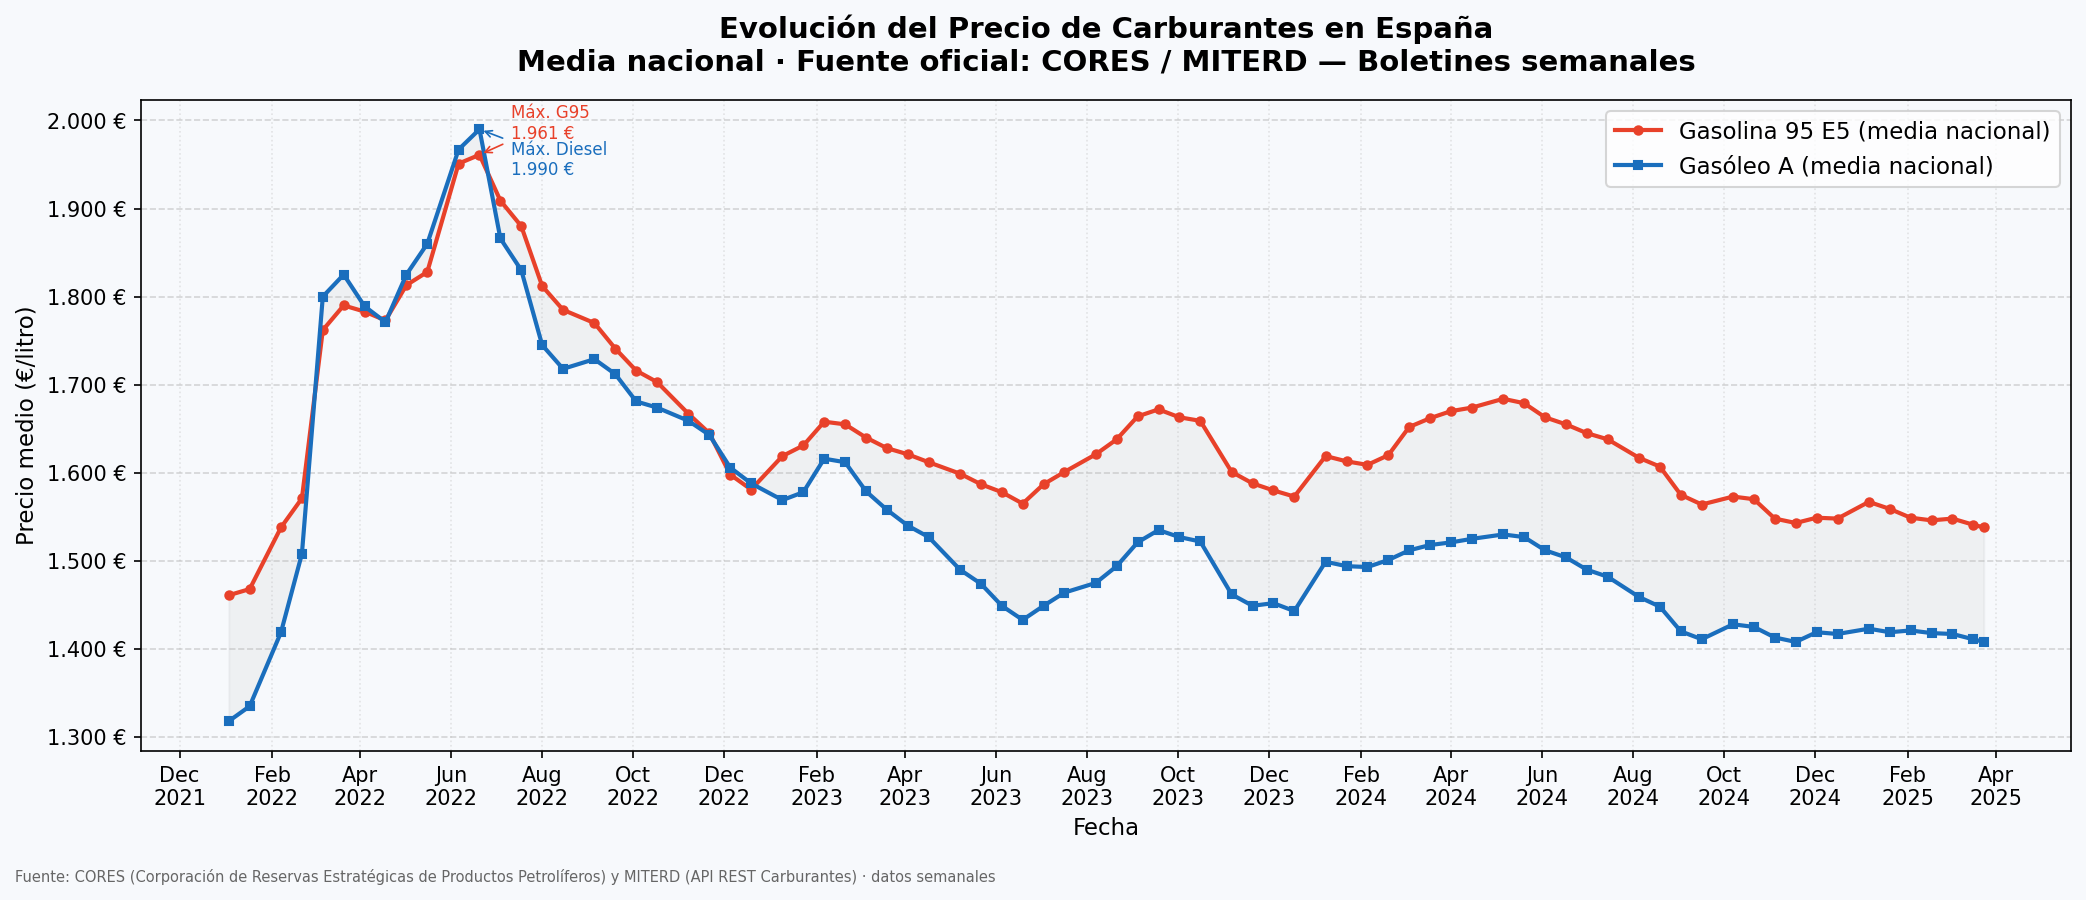
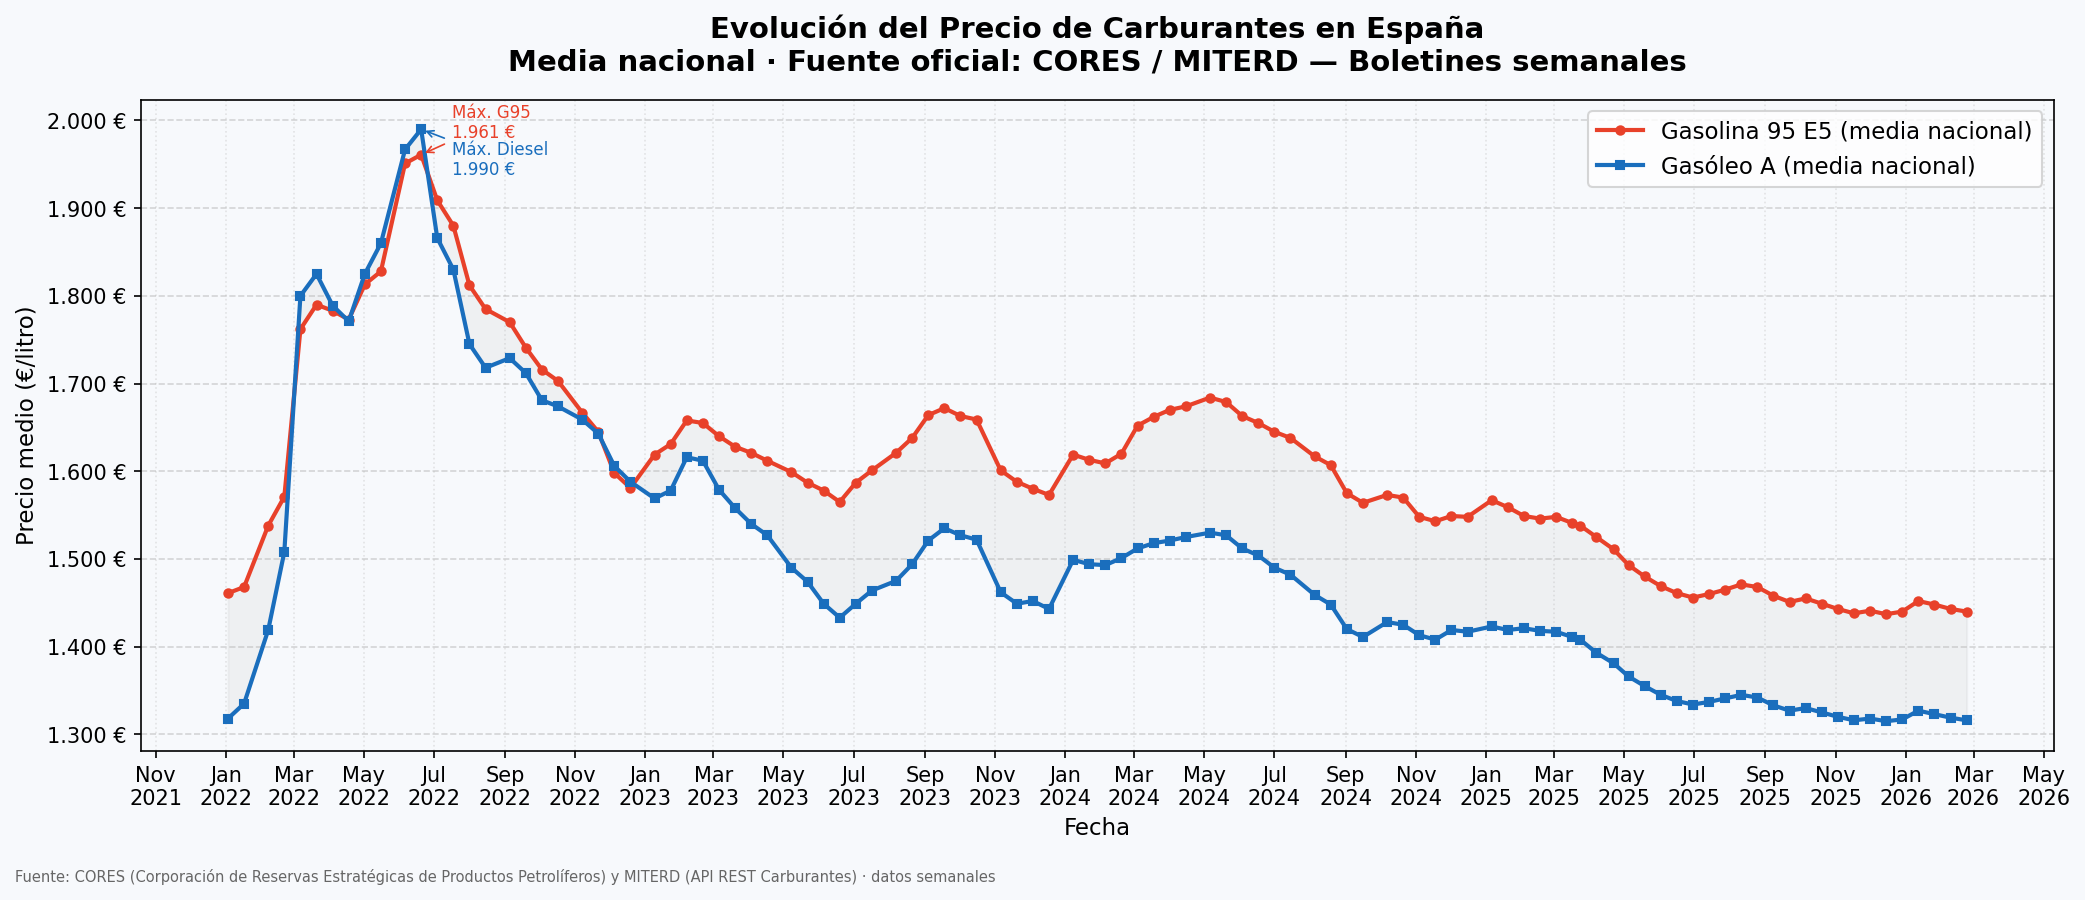
Extend historical data through February 2026
Added 24 weekly data points (Apr 2025 – Feb 2026) covering
the continued price decline driven by lower crude oil prices.
Total series: 103 points from Jan 2022 to Feb 2026.

https://claude.ai/code/session_01GTkLCurH2v5HbpJ4bjqCpU

diff --git a/gasolina_spain.py b/gasolina_spain.py
@@ -104,6 +104,30 @@ HISTORICAL_DATA = [
     ("2025-03-03",     1.548,       1.417),
     ("2025-03-17",     1.541,       1.411),
     ("2025-03-24",     1.538,       1.408),
+    ("2025-04-07",     1.525,       1.393),
+    ("2025-04-22",     1.511,       1.381),
+    ("2025-05-05",     1.493,       1.366),
+    ("2025-05-19",     1.480,       1.355),
+    ("2025-06-02",     1.469,       1.345),
+    ("2025-06-16",     1.461,       1.338),
+    ("2025-06-30",     1.456,       1.334),
+    ("2025-07-14",     1.460,       1.337),
+    ("2025-07-28",     1.465,       1.341),
+    ("2025-08-11",     1.471,       1.345),
+    ("2025-08-25",     1.468,       1.342),
+    ("2025-09-08",     1.458,       1.333),
+    ("2025-09-22",     1.451,       1.327),
+    ("2025-10-06",     1.455,       1.330),
+    ("2025-10-20",     1.449,       1.325),
+    ("2025-11-03",     1.443,       1.320),
+    ("2025-11-17",     1.438,       1.316),
+    ("2025-12-01",     1.441,       1.318),
+    ("2025-12-15",     1.437,       1.315),
+    ("2025-12-29",     1.440,       1.317),
+    ("2026-01-12",     1.452,       1.327),
+    ("2026-01-26",     1.448,       1.323),
+    ("2026-02-09",     1.443,       1.319),
+    ("2026-02-23",     1.440,       1.316),
 ]
 
 
